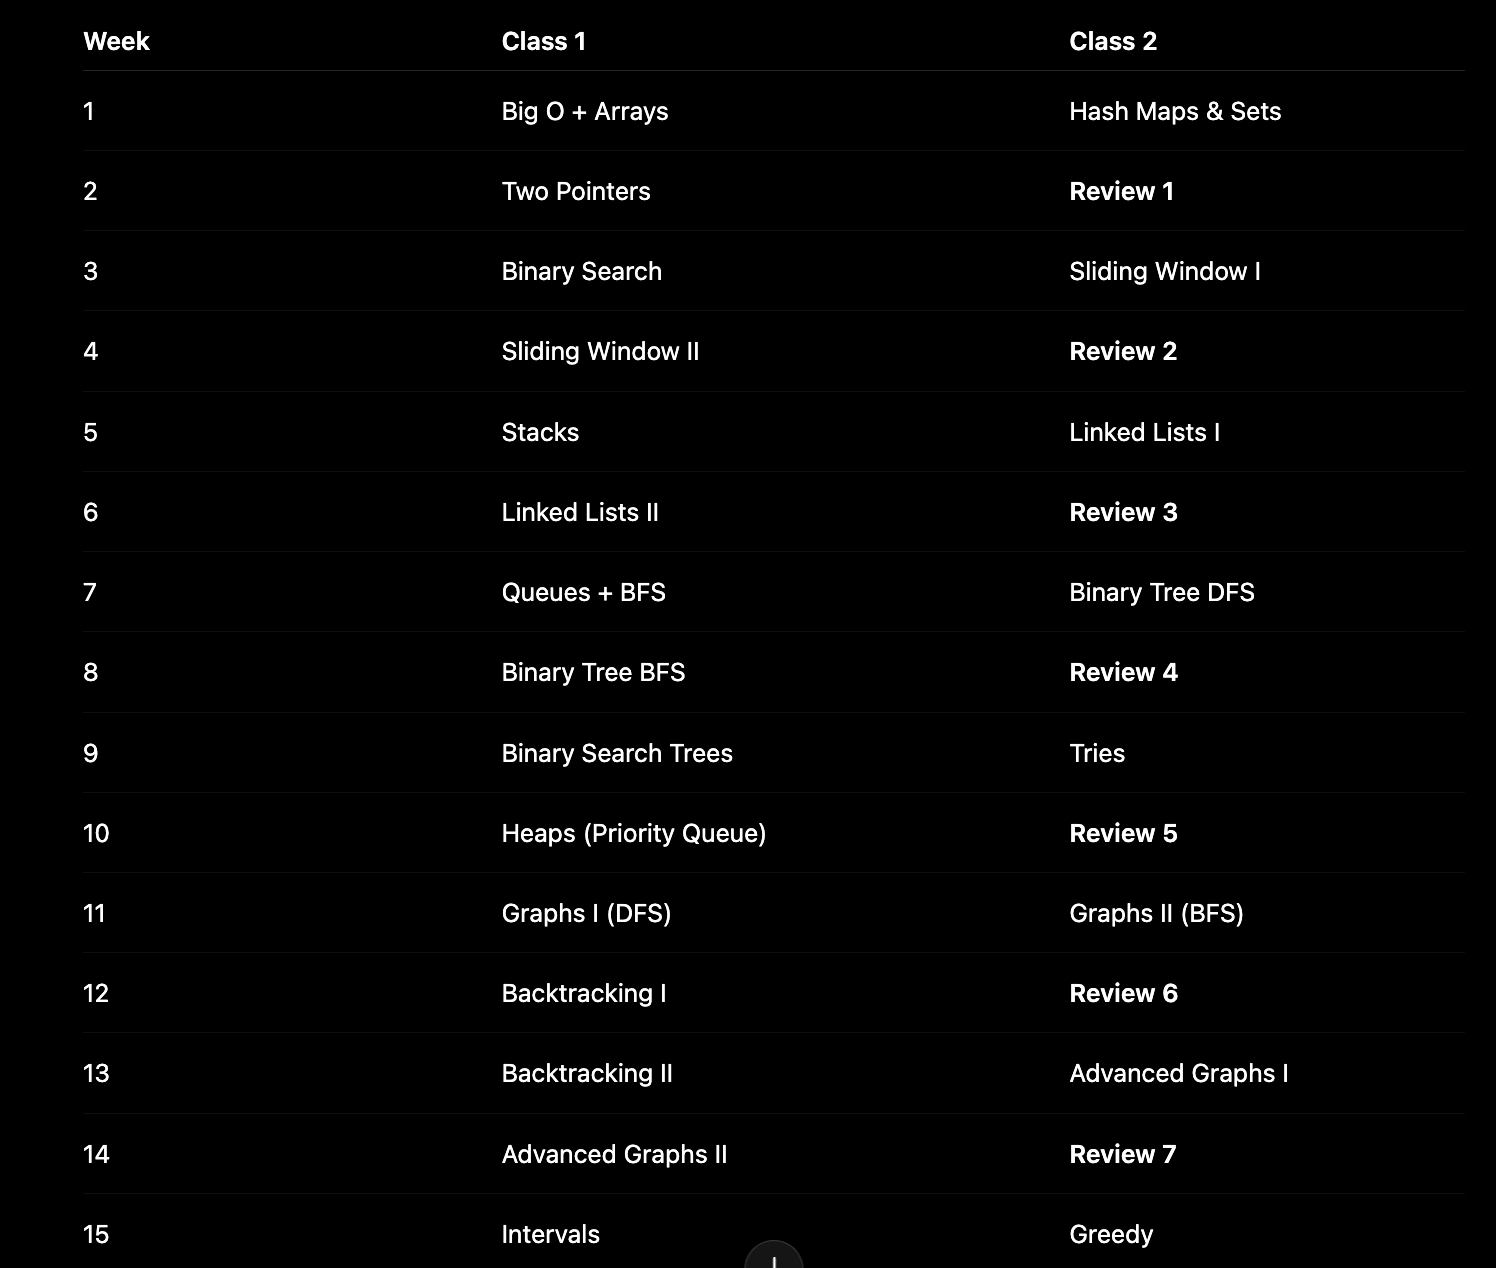
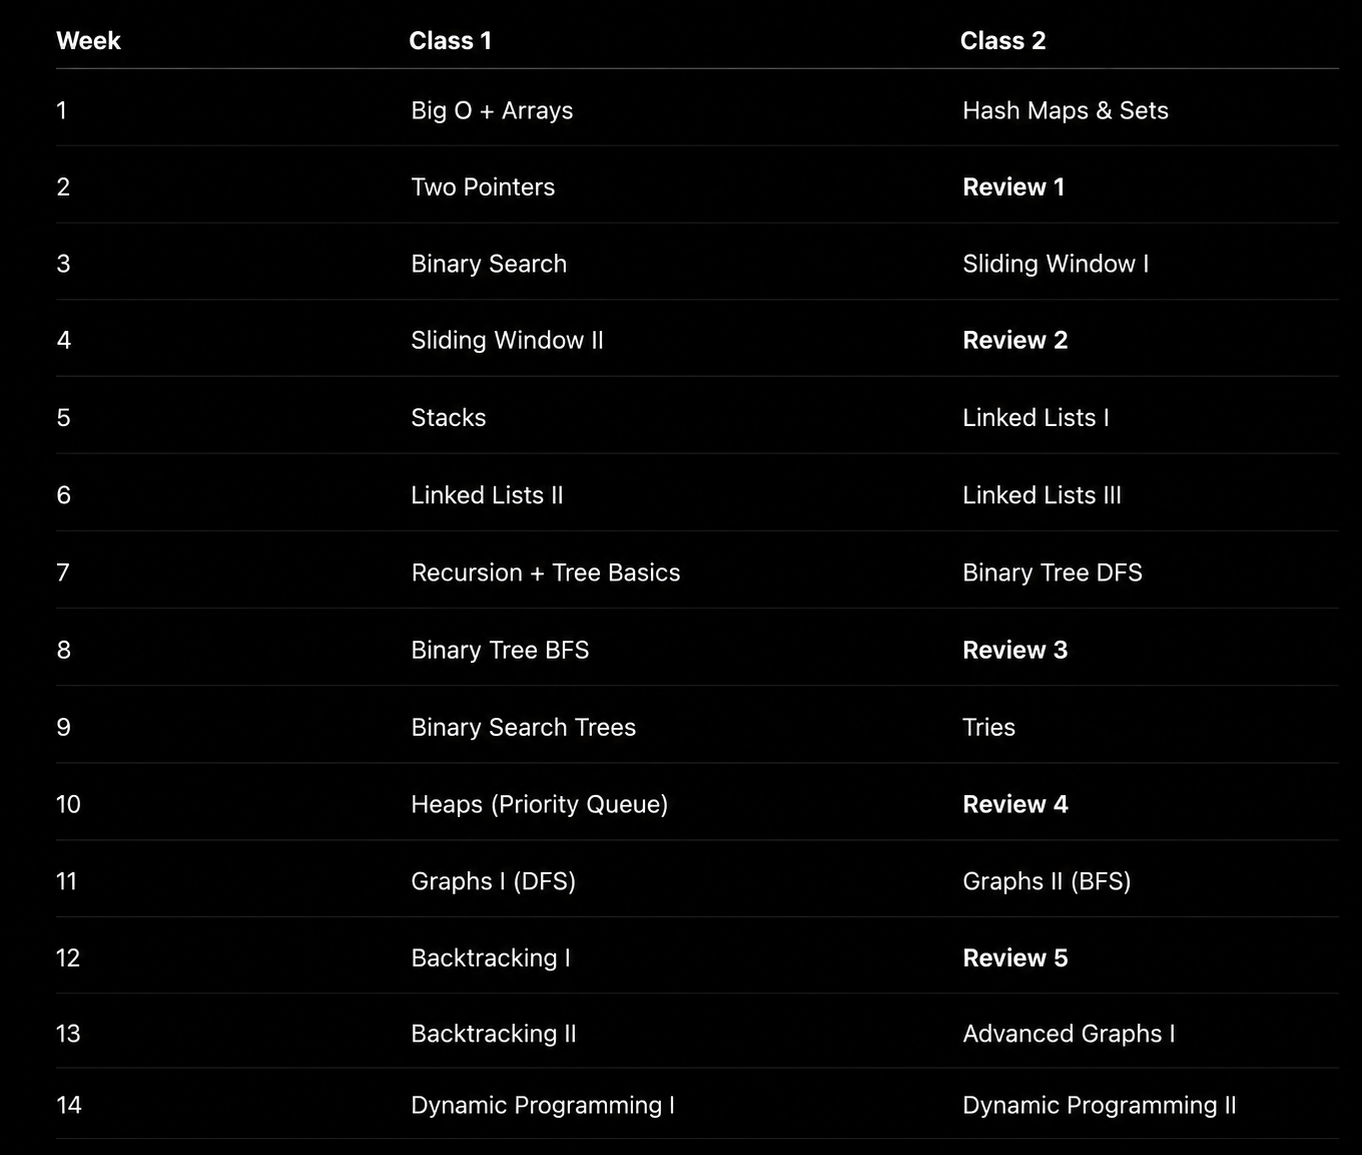
class 10

diff --git a/class9/class9.py b/class9/class9.py
@@ -34,16 +34,17 @@ class ListNode:
         self.val = val
         self.prev = prev
         self.next = next
-        
+
 146) LRU cache
 
 Design a data structure that follows the constraints of a Least Recently Used (LRU) cache.
 
 Implement the LRUCache class:
 
-LRUCache(int capacity) Initialize the LRU cache with positive size capacity.
-int get(int key) Return the value of the key if the key exists, otherwise return -1.
-void put(int key, int value) Update the value of the key if the key exists. Otherwise, add the key-value pair to the cache. If the number of keys exceeds the capacity from this operation, evict the least recently used key.
+- LRUCache(int capacity) Initialize the LRU cache with positive size capacity.
+- int get(int key) Return the value of the key if the key exists, otherwise return -1.
+- void put(int key, int value) Update the value of the key if the key exists. Otherwise, add the key-value pair to the cache. 
+If the number of keys exceeds the capacity from this operation, evict the least recently used key.
 The functions get and put must each run in O(1) average time complexity.
 
 Example 1:
@@ -74,23 +75,73 @@ Constraints:
 At most 2 * 105 calls will be made to get and put.
 
 
+class Node:
+    def __init__(self, key, val):
+        self.key = key
+        self.val = val
+        self.prev = None
+        self.next = None
+
 class LRUCache:
 
     def __init__(self, capacity: int):
+        self.capacity = capacity
+        self.cache = {}
+
+        self.LRU = Node(0, 0)
+        self.MRU = Node(0, 0)
+
+        self.LRU.next = self.MRU
+        self.MRU.prev = self.LRU
         
+    def remove_node(self, node):
+        prev_node = node.prev
+        next_node = node.next
+        prev_node.next = next_node
+        next_node.prev = prev_node
+    
+    def add_node(self, node):
+        prev_node = self.MRU.prev
+        prev_node.next = node
+
+        node.prev = prev_node
+        node.next = self.MRU
+        self.MRU.prev = node
+
 
     def get(self, key: int) -> int:
-        
+        if key not in self.cache:
+            return -1
+        node = self.cache[key]
+        self.remove_node(node)
+        self.add_node(node)
+        return node.val
 
     def put(self, key: int, value: int) -> None:
-        
+        # if the key exists in self.cache, update the val
+        if key in self.cache:
+            node = self.cache[key]
+            node.val = value
+            self.remove_node(node)
+            self.add_node(node)
+            return
+
+        # if key not in self.cache
+        if key not in self.cache:
+            new_node = Node(key, value)
+            self.add_node(new_node)
+            self.cache[key] = new_node
+
+        # if len(cache) > capacity, remove LRU node and from cache
+        if len(self.cache) > self.capacity:
+            lru_node = self.LRU.next
+            self.remove_node(lru_node)
+            del self.cache[lru_node.key]
 
 
 # Your LRUCache object will be instantiated and called as such:
 # obj = LRUCache(capacity)
 # param_1 = obj.get(key)
 # obj.put(key,value)
-
-
 
 '''

diff --git a/class10/class10.py b/class10/class10.py
@@ -1,0 +1,47 @@
+'''
+Recursion + Trees
+
+1. Recursion
+- Function that calls itself
+- Needs base case and recursive case
+
+2. Fibonacci
+- fib(n) = fib(n - 1) + fib(n - 2)
+
+3. Fibonacci Recursion Tree
+- Calls go down
+- Answers return back up
+
+4. Tree Basics
+- Tree = nodes connected in parent-child structure
+- Binary tree = max 2 children
+
+5. Tree Array Representation
+- Example: [1, 2, 3, 4, 5]
+
+6. Parent/Child Array Equation
+- Left = 2i + 1
+- Right = 2i + 2
+- Parent = (i - 1) // 2
+
+7. Root
+- Top node of the tree
+
+8. Parent and Child
+- Parent = node above
+- Child = node below
+
+9. Siblings
+- Nodes with same parent
+
+10. Leaf Nodes
+- Nodes with no children
+
+14. Balanced Binary Tree
+- Left/right subtree heights differ by at most 1
+
+15. TreeNode Class
+- val
+- left
+- right
+'''
